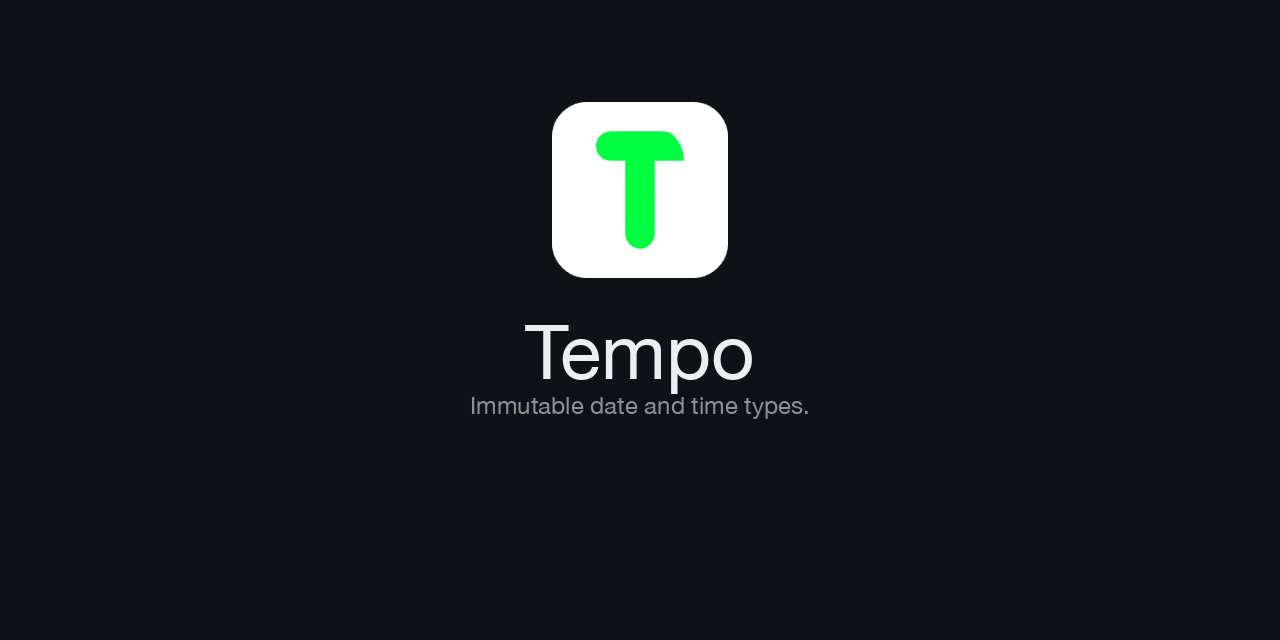
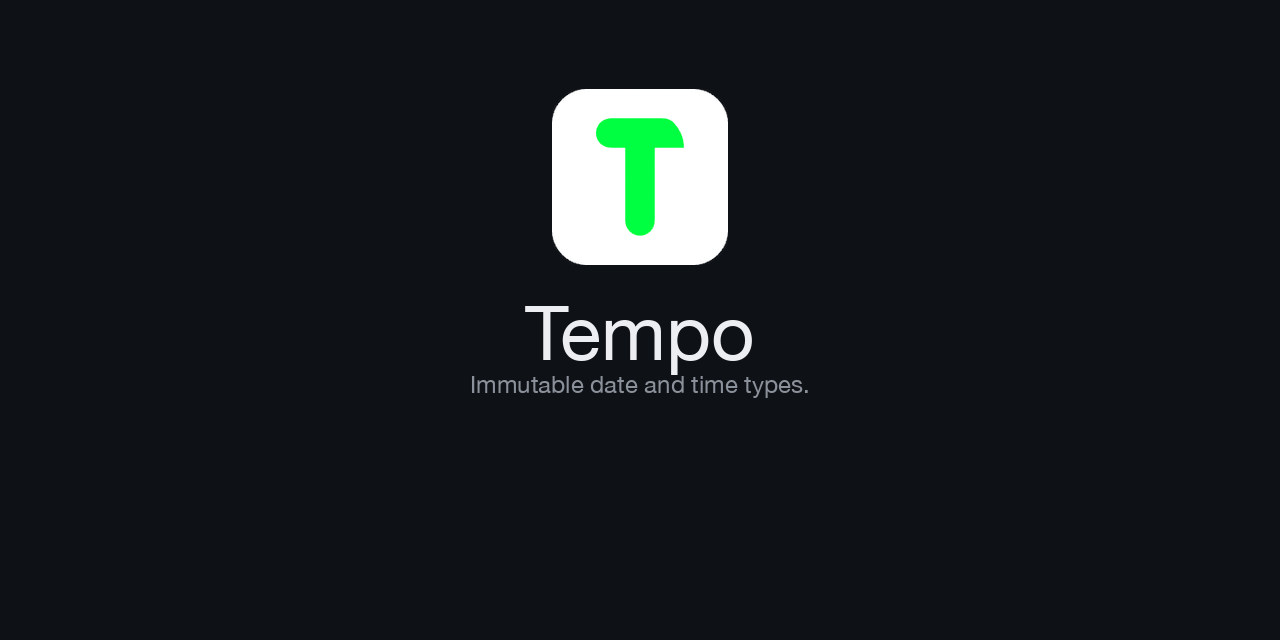
docs: put Tempo's name in the hero with the official mark
README lockup is the official green T plus the Tempo wordmark, same
pattern as Castle. The standalone logo files are unchanged.

diff --git a/scripts/render_brand.py b/scripts/render_brand.py
@@ -26,7 +26,7 @@ def banner(path: Path, width: int, height: int, mark: int, word_size: int, tag_s
     draw = ImageDraw.Draw(img)
     logo = Image.open(LOGO).convert("RGBA")
     logo.thumbnail((mark, mark), Image.Resampling.LANCZOS)
-    img.paste(logo, ((width - logo.width) // 2, int(height * 0.16)), logo)
+    img.paste(logo, ((width - logo.width) // 2, int(height * 0.14)), logo)
 
     word = font(word_size)
     tag = font(tag_size)
@@ -34,8 +34,8 @@ def banner(path: Path, width: int, height: int, mark: int, word_size: int, tag_s
     tagline = "Immutable date and time types."
     wb = draw.textbbox((0, 0), wordmark, font=word)
     tb = draw.textbbox((0, 0), tagline, font=tag)
-    word_y = int(height * 0.16) + logo.height + 28
-    tag_y = word_y + (wb[3] - wb[1]) + 16
+    word_y = int(height * 0.14) + logo.height + 22
+    tag_y = word_y + (wb[3] - wb[1]) + 14
     draw.text(((width - (wb[2] - wb[0])) / 2, word_y), wordmark, font=word, fill=WORD)
     draw.text(((width - (tb[2] - tb[0])) / 2, tag_y), tagline, font=tag, fill=MORTAR)
     img.save(path, "PNG", optimize=True)

diff --git a/README.md b/README.md
@@ -1,5 +1,5 @@
 <p align="center">
-  <img src="assets/logo.png" alt="Tempo" width="144" />
+  <img src="assets/hero.png" alt="Tempo — immutable date and time types" width="480" />
 </p>
 
 <p align="center">
